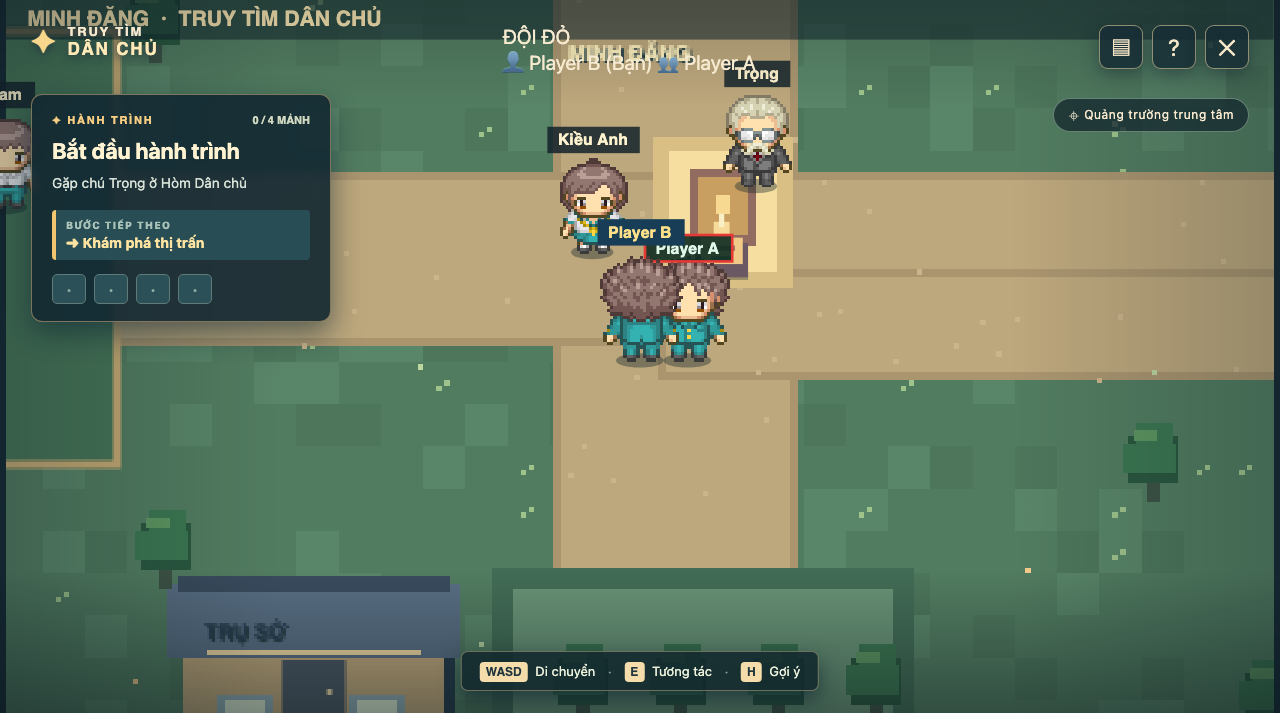
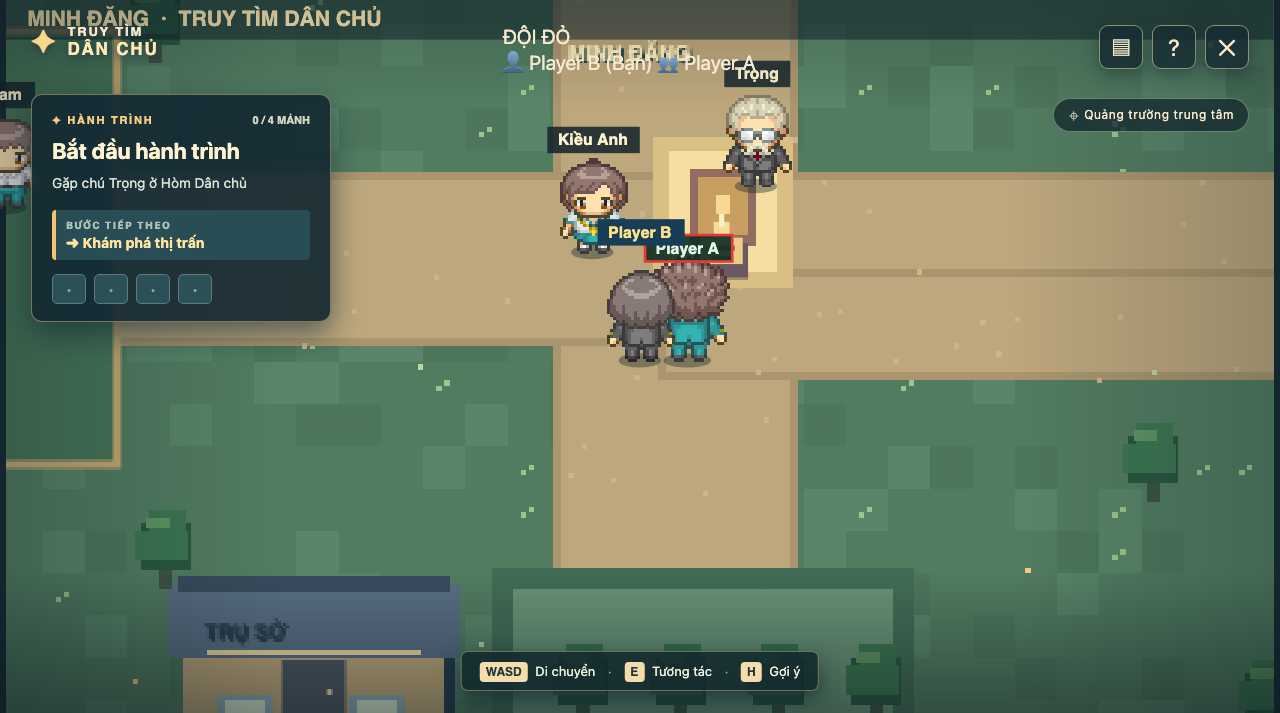
fix(multiplayer): đồng bộ hướng nhìn và hoạt ảnh di chuyển 4 hướng cho đồng đội
- Cho phép di chuyển tự do trong Chapter.Opening ở MultiplayerSession
- Bổ sung trường Facing và Walking vào Actor record
- Đồng bộ hướng nhìn và trạng thái bước chân của đồng đội từ TeammateInterpolator sang Actor
- Giữ nguyên hướng nhìn hiện tại khi dừng di chuyển trong TownCollision.SimulateStep
- Bổ sung unit tests kiểm tra di chuyển trong Chapter.Opening và đồng bộ Facing/Walking của đồng đội

Changed region(s): [[0.4688, 0.3394, 0.5625, 0.5245]]

diff --git a/Tests/Multiplayer.UnitTests/MovementSyncTests.cs b/Tests/Multiplayer.UnitTests/MovementSyncTests.cs
@@ -238,4 +238,53 @@ public sealed class MovementSyncTests
         Assert.True(session.X > 500f, $"Kỳ vọng X > 500f nhưng thực tế là {session.X}");
         Assert.Equal(1, session.Walking);
     }
+
+    [Fact]
+    public void TeammateActor_ReflectsFacingAndWalking_WhenTeammateMoves()
+    {
+        var session = new MultiplayerSession("p1", "Player 1", "quang");
+        session.ApplySnapshot(new TeamGameStateSnapshot(
+            "match1", "team1", "Đội Đỏ", "#E53935",
+            [
+                new TeamMemberState("p1", "Player 1", "quang", "#E53935", 500f, 366f, 2, 0, true),
+                new TeamMemberState("p2", "Player 2", "bao", "#E53935", 518f, 366f, 2, 0, true)
+            ],
+            new TeamProgressSnapshot(Chapter.Opening, new bool[4], new bool[4], new bool[3], 1, 0)
+        ));
+
+        // Ban đầu đồng đội đứng yên quay mặt xuống dưới (Facing = 2, Walking = 0)
+        var frame0 = session.Tick(1000, 0);
+        var p2Actor0 = frame0.Actors.FirstOrDefault(a => a.Name == "Player 2");
+        Assert.NotNull(p2Actor0);
+        Assert.Equal(2, p2Actor0.Facing);
+        Assert.Equal(0, p2Actor0.Walking);
+
+        // Đồng đội p2 di chuyển lên trên (Facing = 0, Walking = 1)
+        session.UpdateTeammatePosition("p2", 518f, 350f, 0, 1, 1, 1050);
+
+        // Frame tiếp theo (dt = 50ms)
+        var frame1 = session.Tick(1050, 0);
+        var p2Actor1 = frame1.Actors.FirstOrDefault(a => a.Name == "Player 2");
+        Assert.NotNull(p2Actor1);
+        Assert.Equal(0, p2Actor1.Facing);
+        Assert.Equal(1, p2Actor1.Walking);
+
+        // Đồng đội p2 di chuyển sang phải (Facing = 1, Walking = 1)
+        session.UpdateTeammatePosition("p2", 530f, 350f, 1, 1, 2, 1100);
+
+        var frame2 = session.Tick(1100, 0);
+        var p2Actor2 = frame2.Actors.FirstOrDefault(a => a.Name == "Player 2");
+        Assert.NotNull(p2Actor2);
+        Assert.Equal(1, p2Actor2.Facing);
+        Assert.Equal(1, p2Actor2.Walking);
+
+        // Đồng đội dừng lại (Facing = 1, Walking = 0)
+        session.UpdateTeammatePosition("p2", 530f, 350f, 1, 0, 3, 1150);
+
+        var frame3 = session.Tick(1150, 0);
+        var p2Actor3 = frame3.Actors.FirstOrDefault(a => a.Name == "Player 2");
+        Assert.NotNull(p2Actor3);
+        Assert.Equal(1, p2Actor3.Facing);
+        Assert.Equal(0, p2Actor3.Walking);
+    }
 }

diff --git a/Shared/Game/MovementSync.cs b/Shared/Game/MovementSync.cs
@@ -73,7 +73,7 @@ public sealed class MovementReconciler
             foreach (var input in _unackedInputs)
             {
                 TownCollision.SimulateStep(curX, curY, input.Keys, input.Dt,
-                    out curX, out curY, out curFacing, out curWalking);
+                    out curX, out curY, out curFacing, out curWalking, curFacing);
             }
 
             float dx = curX - player.X;
@@ -215,11 +215,15 @@ public sealed class TeammateInterpolator
             CurrentFacing = latest.Facing;
             CurrentWalking = latest.Walking;
 
-            // Nếu rất gần đích (sai số < 0.1px), chốt về vị trí đích
-            if (Math.Abs(latest.X - CurrentX) < 0.1f && Math.Abs(latest.Y - CurrentY) < 0.1f)
+            // Nếu rất gần đích (sai số < 0.2px), chốt về vị trí đích
+            if (Math.Abs(latest.X - CurrentX) < 0.2f && Math.Abs(latest.Y - CurrentY) < 0.2f)
             {
                 CurrentX = latest.X;
                 CurrentY = latest.Y;
+                if (latest.Walking == 0)
+                {
+                    CurrentWalking = 0;
+                }
             }
         }
     }

diff --git a/Shared/Game/MultiplayerSession.cs b/Shared/Game/MultiplayerSession.cs
@@ -192,7 +192,7 @@ public sealed class MultiplayerSession : IGameSession
             if (delta > 0)
             {
                 TownCollision.SimulateStep(_player.X, _player.Y, keys, dt,
-                    out var newX, out var newY, out var facing, out var walking);
+                    out var newX, out var newY, out var facing, out var walking, _player.Facing);
                 _player.X = newX;
                 _player.Y = newY;
                 _player.Facing = facing;
@@ -232,7 +232,7 @@ public sealed class MultiplayerSession : IGameSession
         {
             var interp = _teammateInterpolators.GetOrAdd(t.PlayerId, _ => new TeammateInterpolator(t.X, t.Y, t.Facing, t.Walking));
             interp.Update(dt);
-            actorList.Add(new Actor(t.AvatarId, t.DisplayName, interp.CurrentX, interp.CurrentY, t.AccentColor, "teammate"));
+            actorList.Add(new Actor(t.AvatarId, t.DisplayName, interp.CurrentX, interp.CurrentY, t.AccentColor, "teammate", interp.CurrentFacing, interp.CurrentWalking));
         }
 
         return new Frame(

diff --git a/Shared/Game/GameEngine.cs b/Shared/Game/GameEngine.cs
@@ -6,7 +6,7 @@ public enum Chapter { Opening, Lights, Draft, River, News, Finale, Complete }
 public enum Panel { None, Dialogue, Mirrors, Draft, River, News, Finale, Pause, Sources, Settings, Presenter }
 
 public sealed record Line(string Speaker, string Text);
-public sealed record Actor(string Id, string Name, float X, float Y, string Color, string Kind);
+public sealed record Actor(string Id, string Name, float X, float Y, string Color, string Kind, int Facing = 2, int Walking = 0);
 public sealed record WorldObject(string Id, float X, float Y, string Kind, string Label, bool Done = false);
 public sealed record Frame(float X, float Y, float CameraX, float CameraY, int Facing, int Walking,
     Actor[] Actors, WorldObject[] Objects, string? TargetId, float TargetX, float TargetY, string? TargetLabel,

diff --git a/Shared/Game/TownCollision.cs b/Shared/Game/TownCollision.cs
@@ -68,7 +68,7 @@ public static class TownCollision
     }
 
     public static void SimulateStep(float currentX, float currentY, int keys, float dt,
-        out float newX, out float newY, out int facing, out int walking)
+        out float newX, out float newY, out int facing, out int walking, int currentFacing = 0)
     {
         float dx = ((keys & 8) != 0 ? 1 : 0) - ((keys & 4) != 0 ? 1 : 0);
         float dy = ((keys & 2) != 0 ? 1 : 0) - ((keys & 1) != 0 ? 1 : 0);
@@ -77,7 +77,7 @@ public static class TownCollision
         {
             newX = currentX;
             newY = currentY;
-            facing = 0;
+            facing = currentFacing;
             walking = 0;
             return;
         }

diff --git a/Server/TeamGameInstance.cs b/Server/TeamGameInstance.cs
@@ -68,7 +68,7 @@ public sealed class TeamMemberSession
             return true;
         }
 
-        TownCollision.SimulateStep(X, Y, keys, dtSeconds, out var newX, out var newY, out var facing, out var walking);
+        TownCollision.SimulateStep(X, Y, keys, dtSeconds, out var newX, out var newY, out var facing, out var walking, Facing);
         X = newX;
         Y = newY;
         Facing = facing;
